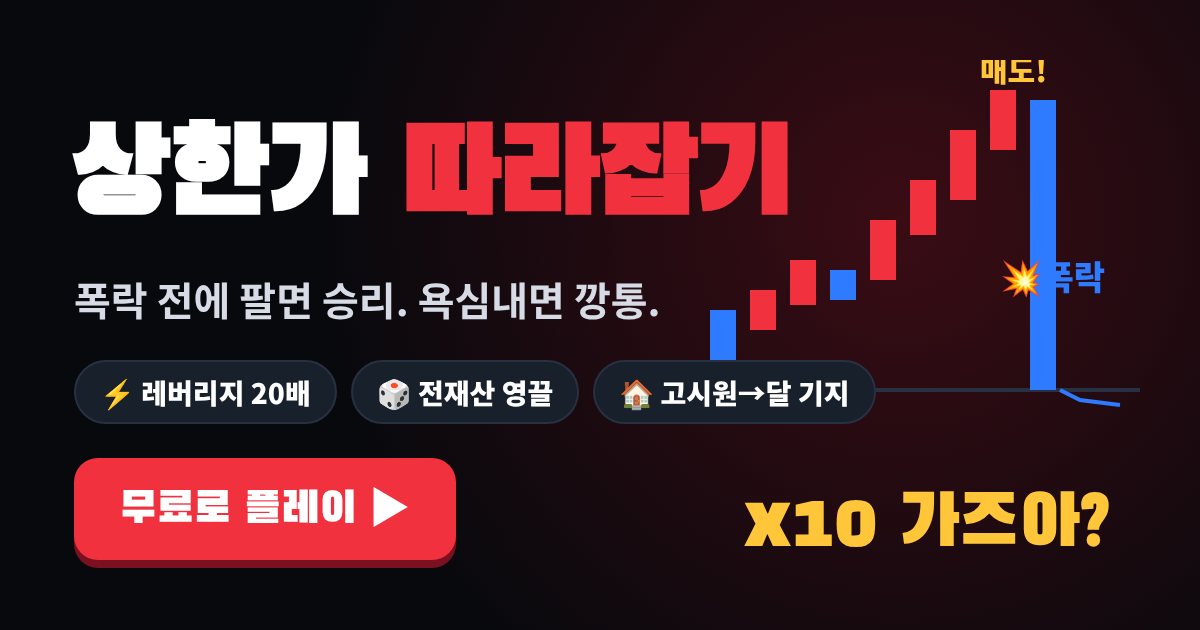
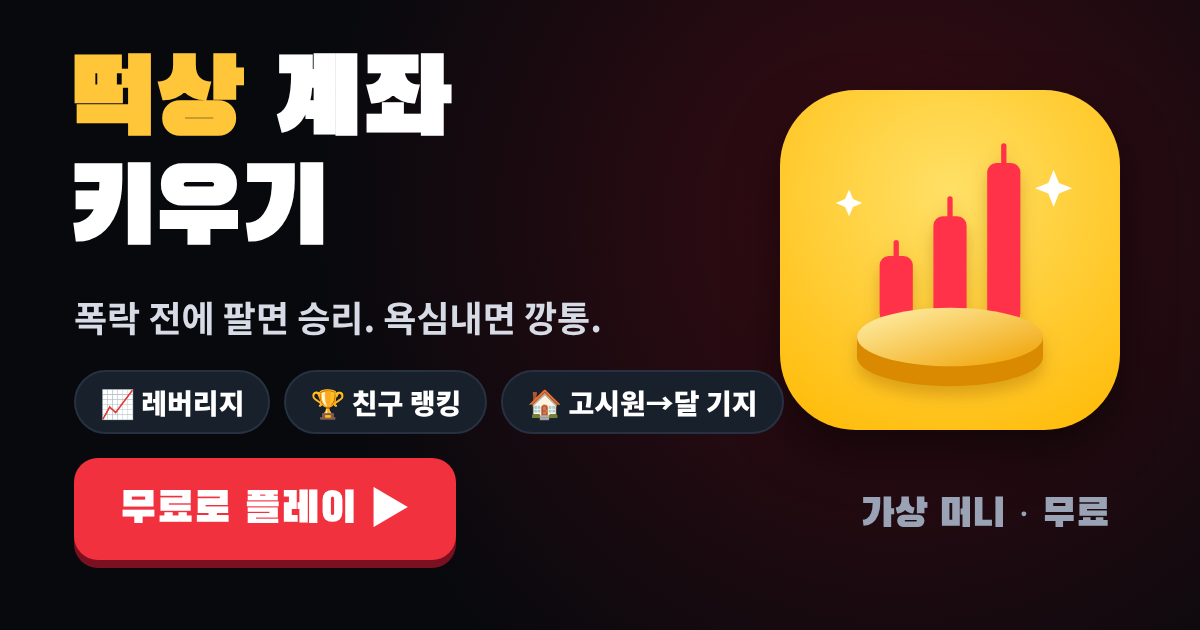
떡상 계좌 키우기: 이름·아이콘 변경
Claude-Session: https://claude.ai/code/session_01QZ3L7dZb4Qjw7JpHHVpWAq

diff --git a/index.html b/index.html
@@ -5,21 +5,21 @@
 <meta name="apple-mobile-web-app-capable" content="yes">
 <meta name="mobile-web-app-capable" content="yes">
 <meta name="apple-mobile-web-app-status-bar-style" content="black-translucent">
-<meta name="apple-mobile-web-app-title" content="상한가">
+<meta name="apple-mobile-web-app-title" content="떡상계좌">
 <link rel="manifest" href="manifest.webmanifest">
 <link rel="apple-touch-icon" href="apple-touch-icon.png">
 <link rel="icon" href="icon-192.png">
 <meta name="description" content="폭락 전에 팔면 승리, 욕심내면 깡통. 레버리지·영끌·투자·컬렉션까지, 무료 주식 타이밍 게임 (가상 머니)">
 <meta property="og:type" content="website">
-<meta property="og:title" content="상한가 따라잡기 📈 폭락 전에 팔아라">
-<meta property="og:description" content="레버리지 20배, 전재산 영끌, 고시원에서 달 기지까지. 무료 · 설치 없음 · 가상 머니">
+<meta property="og:title" content="떡상 계좌 키우기 📈 폭락 전에 팔아라">
+<meta property="og:description" content="폭락 전에 팔고 계좌를 키워라. 고시원에서 달 기지까지. 무료 · 설치 없음 · 가상 머니">
 <meta property="og:image" content="https://melange-lab.github.io/og.png">
 <meta property="og:image:width" content="1200"><meta property="og:image:height" content="630">
 <meta property="og:url" content="https://melange-lab.github.io/">
 <meta name="twitter:card" content="summary_large_image">
 <style>*,*::before,*::after{box-sizing:border-box}:root{padding-top:env(safe-area-inset-top,0px);padding-bottom:env(safe-area-inset-bottom,0px);height:100%}body{margin:0;font-size:14px;overscroll-behavior:none}[hidden]{display:none!important}</style>
 </head><body>
-<title>상한가 따라잡기</title>
+<title>떡상 계좌 키우기</title>
 <meta name="claude:viewport-fit-sides" content="cover">
 <link rel="stylesheet" href="https://fonts.googleapis.com/css2?family=Black+Han+Sans&family=Noto+Sans+KR:wght@400;500;700;900&family=JetBrains+Mono:wght@500;700;800&display=swap">
 <style>
@@ -480,7 +480,7 @@ body{font-size:14px;line-height:1.4}
 
 <div class="app" id="app">
   <header>
-    <h1><b>상한가</b> 따라잡기</h1>
+    <h1><b>떡상</b> 계좌 키우기</h1>
     <div class="rank" id="rankBtn" role="button" tabindex="0" aria-label="레벨·경험치 보기"><span id="rankName">주린이 Lv.1</span><i><b id="rankBar" style="width:0"></b></i></div>
     <button class="ib gd" id="giftBtn" type="button" aria-label="매일 룰렛">🎁</button>
     <button class="ib gd" id="spBtn" type="button">🌳 SP 0</button>
@@ -1123,7 +1123,7 @@ function missionsUpdate(r){
 let shareText='';
 const GAME_URL='https://melange-lab.github.io/';
 function shareOut(text){const full=text+'\n👉 '+GAME_URL;
-  if(navigator.share){navigator.share({title:'상한가 따라잡기',text,url:GAME_URL}).catch(()=>{});return;}
+  if(navigator.share){navigator.share({title:'떡상 계좌 키우기',text,url:GAME_URL}).catch(()=>{});return;}
   (navigator.clipboard?navigator.clipboard.writeText(full):Promise.reject()).then(()=>toast('링크와 함께 복사했습니다. 단톡방에 붙여넣기!'),()=>toast('복사가 막혀 있습니다. 화면을 캡처해 주세요'));}
 function shareBtn(){return '<div class="btns"><button type="button" id="share">📤 결과 공유</button></div>'}
 function bindShare(){const b=$('share');if(!b)return;b.onclick=()=>shareOut(shareText);}
@@ -1132,7 +1132,7 @@ function showWin(pct,xg){
   const close=(crashT-sell.t)<.4?'<div class="sub gd">폭락 '+(crashT-sell.t).toFixed(2)+'초 전 탈출!</div>':'';
   const shook=sell.dip&&peak>=sell.m*1.5?'<div class="sub dn">그 악재 뉴스는 개미털기였습니다.</div>':'';
   const o=run.offer,pp=x=>((x-1)*100).toFixed(1)+'%';
-  shareText=`[상한가 따라잡기] ${o.name} +${pp(sell.m)} 매도 · 고점 근접도 ${pct.toFixed(0)}% · ${g[0]} ${streak>=5?'🔥'+streak+'연속':''}\n자산 ${won(balance)}`;
+  shareText=`[떡상 계좌 키우기] ${o.name} +${pp(sell.m)} 매도 · 고점 근접도 ${pct.toFixed(0)}% · ${g[0]} ${streak>=5?'🔥'+streak+'연속':''}\n자산 ${won(balance)}`;
   card.innerHTML='<div class="grade '+g[1]+'">'+g[0]+'</div><div class="sub">'+g[2]+'</div>'+close+shook+
    (()=>{const tot=sell.gain+sell.bonus+(run.re?(run.re.gain||0)-(run.re.loss||0):0);return '<div class="big '+(tot>=0?'up':'dn')+'">'+sw(tot)+'</div>'+(run.re?'<div class="sub">1차 매도 '+sw(sell.gain+sell.bonus)+'</div>':'');})()+
    (run.re?'<div class="sub '+((run.re.gain||0)-(run.re.loss||0)>=0?'up':'dn')+'">🔁 재진입 '+(run.re.loss?'물림 '+sw(-run.re.loss):'매도 '+sw(run.re.gain||0))+'</div>':'')+
@@ -1149,7 +1149,7 @@ function showWin(pct,xg){
 function hintLine(){return run.hint?'<div class="row"><span>찌라시</span><span>'+(run.hint.real?'진짜였음 🕵':'가짜였음 🤡')+'</span></div>':'';}
 function showBust(loss,L,xg){
   const early=peak<1.1;
-  shareText=`[상한가 따라잡기] ${run.offer.name} 고점 +${((peak-1)*100).toFixed(1)}%에서 못 팔고 물림 ${Math.round(L*100)}% 손실 🫠\n자산 ${won(balance)}`;
+  shareText=`[떡상 계좌 키우기] ${run.offer.name} 고점 +${((peak-1)*100).toFixed(1)}%에서 못 팔고 물림 ${Math.round(L*100)}% 손실 🫠\n자산 ${won(balance)}`;
   card.innerHTML='<div class="grade dn">'+(run.liq?'💀 강제청산':early?'시초가 폭락':'물렸습니다')+'</div>'+
    '<div class="sub">'+(early?'사자마자 터졌습니다. 운이 없었어요.':'+'+((peak-1)*100).toFixed(1)+'%까지 갔는데 욕심을 부렸습니다.')+'</div>'+
    '<div class="big dn">'+sw(-loss)+' ('+Math.round(L*100)+'%)</div>'+
@@ -1630,7 +1630,7 @@ function chalRound(sold){
   const sc=chal.score,d=chal.day;chal=null;store.set('shg_chalRun',null);store.set('shg_chalDay',d);
   lgFix();league.me[d]=sc;store.set('shg_league',league);
   const rw=sc>0?Math.round(betCap()*Math.min(3,sc/100)/1e4)*1e4:0;balance+=rw;gainXp(40);
-  shareText='🏆 상한가 따라잡기 오늘의 챌린지 '+String(d).slice(4,6)+'/'+String(d).slice(6)+' · '+sc+'점! 이 코드 넣고 겨뤄봐 👉 SHG-'+d+'-'+sc+'-'+nick;
+  shareText='🏆 떡상 계좌 키우기 오늘의 챌린지 '+String(d).slice(4,6)+'/'+String(d).slice(6)+' · '+sc+'점! 이 코드 넣고 겨뤄봐 👉 SHG-'+d+'-'+sc+'-'+nick;
   card.innerHTML='<div class="grade gd">🏆 챌린지 완료</div><div class="big '+(sc>=0?'up':'dn')+'">'+sc+'점</div><div class="sub">'+'판별: '+chalLast(sc)+'</div>'+(rw?'<div class="sub up">보상 '+won(rw)+' · XP +40</div>':'<div class="sub">XP +40</div>')+'<div class="sub">결과 공유로 친구에게 코드를 보내면 친구 리그에서 겨룰 수 있어요.</div>'+shareBtn();card.hidden=false;bindShare();
 }
 const chalLast=sc=>sc>=300?'전설의 단타':sc>=150?'고수':sc>=50?'선방':sc>=0?'본전치기':'물림 파티';
@@ -1643,7 +1643,7 @@ function chalHtml(){lgFix();const today=dayNum(),played=store.get('shg_chalDay',
    '<div style="display:grid;grid-template-columns:1fr 1fr;gap:8px;padding:10px 0"><button class="setbtn" type="button" id="lgAdd">➕ 친구 코드 넣기</button><button class="setbtn ghost" type="button" id="nickSet">✏ 닉네임 '+nick+'</button></div></div>';}
 function chalBind(pg){
   const g=pg.querySelector('#chalGo');if(g)g.onclick=()=>{if(chal){tab('trade');setBtn();}else chalStart();};
-  const sh=pg.querySelector('#chalShare');if(sh)sh.onclick=()=>{const d=dayNum();shareOut('🏆 상한가 따라잡기 오늘의 챌린지 '+(league.me[d]||0)+'점! 이 코드 넣고 겨뤄봐 👉 SHG-'+d+'-'+(league.me[d]||0)+'-'+nick);};
+  const sh=pg.querySelector('#chalShare');if(sh)sh.onclick=()=>{const d=dayNum();shareOut('🏆 떡상 계좌 키우기 오늘의 챌린지 '+(league.me[d]||0)+'점! 이 코드 넣고 겨뤄봐 👉 SHG-'+d+'-'+(league.me[d]||0)+'-'+nick);};
   const a=pg.querySelector('#lgAdd');if(a)a.onclick=()=>{const t=(prompt('친구가 보낸 코드를 붙여넣으세요 (SHG-로 시작)')||'');const m=t.match(/SHG-(\d{8})-(-?\d+)-([^\s]{1,20})/);
     if(!m){if(t)toast('코드를 찾지 못했어요');return;}lgFix();const [,d,sc,n]=m;if(n===nick){toast('내 코드예요');return;}league.fr[n]=league.fr[n]||{};league.fr[n][+d]=+sc;store.set('shg_league',league);toast('👥 '+n+' 점수 추가!');rerender('mission');};
   const nk=pg.querySelector('#nickSet');if(nk)nk.onclick=()=>{const v=(prompt('닉네임 (공백 없이 2~10자)',nick)||'').trim().replace(/\s+/g,'');if(v.length>=2&&v.length<=10){nick=v;store.set('shg_nick',nick);rerender('mission');}};
@@ -1856,7 +1856,7 @@ function pageSet(){
    '<h3>개인정보</h3><p class="lead">이 게임은 회원가입이 없고, 플레이 기록을 서버로 보내지 않습니다. 글꼴만 Google Fonts에서 받아옵니다.</p>'+
    '<h3>데이터</h3><button class="setbtn danger" type="button" id="wipe" style="width:100%">모든 기록 초기화</button><p class="lead" style="margin-top:8px">기록은 이 기기의 브라우저에만 저장됩니다. 초기화하면 계급, 스킬, 업적이 모두 사라집니다.</p>'+
    (CFG.donateUrl?'<h3>개발자 응원</h3><a class="setbtn" style="display:block;text-align:center;text-decoration:none;width:100%" href="'+CFG.donateUrl+'" target="_blank" rel="noopener">☕ 커피 한 잔 후원하기</a><p class="lead" style="margin-top:8px">후원은 게임 내 보상과 무관한 순수 응원이에요.</p>':'')+'<h3>친구 초대</h3><button class="setbtn" type="button" id="invite" style="width:100%">📤 친구에게 게임 공유하기</button>'+
-   '<p class="lead" style="margin-top:10px">상한가 따라잡기 v2.0 · 가상 머니 게임이며 실제 투자·현금과 무관합니다. 실제 돈은 쓰이지 않습니다.</p>';
+   '<p class="lead" style="margin-top:10px">떡상 계좌 키우기 v2.1 · 가상 머니 게임이며 실제 투자·현금과 무관합니다. 실제 돈은 쓰이지 않습니다.</p>';
 }
 function bindPage(name){
   const pg=$('page');
@@ -1871,7 +1871,7 @@ function bindPage(name){
   pg.querySelectorAll('[data-dep]').forEach(b=>b.onclick=()=>{const id=b.dataset.dep,v=Math.floor(balance*invPct);if(v<1)return;balance-=v;invest[id]=invest[id]||{a:0};invest[id].a+=v;store.set('shg_inv2',invest);sfx.sell();toast('💼 '+PROD.find(x=>x.id===id).n+' 입금 '+won(v));paintTop();paintPickers();rerender('invest');});
   pg.querySelectorAll('[data-wd]').forEach(b=>b.onclick=()=>{const P=PROD.find(x=>x.id===b.dataset.wd),h=invest[P.id];if(!h||!(h.a>0))return;const take=invPct>=1?h.a:h.a*invPct,out=take*(1-P.fee);balance+=out;h.a-=take;if(h.a<1){h.a=0;h.d=0;}store.set('shg_inv2',invest);sfx.sell();toast('💼 출금 '+won(out)+(P.fee?' (수수료 '+P.fee*100+'%)':''));paintTop();paintPickers();rerender('invest');});
   pg.querySelectorAll('[data-col]').forEach(b=>b.onclick=()=>{const c=COL.find(x=>x.id===b.dataset.col);if(col.includes(c.id)||balance<c.p)return;balance-=c.p;col.push(c.id);store.set('shg_col',col);sfx.up();burst(innerWidth/2,innerHeight*.4,80);stamp(c.e+' '+c.n+' 획득!');toast('🏆 컬렉션 '+col.length+'/'+COL.length+' · SP +'+(c.fic?2:1));if(catDone(c.cat)){const K=CATS.find(k=>k.id===c.cat);setTimeout(()=>{stamp(K.e+' '+K.n+' 완성!');toast('✅ '+K.n+' 분류 완성 · 보너스 SP +3');},900);}paintTop();paintPickers();rerender('invest');});
-  const iv=$('invite');if(iv)iv.onclick=()=>shareOut('📈 상한가 따라잡기 — 폭락 전에 팔면 이기는 주식 게임. 내 자산 '+won(balance)+', 나보다 잘할 수 있음?');
+  const iv=$('invite');if(iv)iv.onclick=()=>shareOut('📈 떡상 계좌 키우기 — 폭락 전에 팔면 이기는 주식 게임. 내 자산 '+won(balance)+', 나보다 잘할 수 있음?');
   const pz=$('prestige');if(pz)pz.onclick=()=>{if(balance+invTotal()-debt<PRES_NEED())return;if(!confirm('은퇴하고 새 회차를 시작할까요?\n돈·투자·장비·소모품·빚이 초기화됩니다.'))return;
     pres++;store.set('shg_pres',pres);lowFlag=false;streak=0;app.classList.remove('fever');$('fever').hidden=true;balance=START;debt=0;credit=5;gear={};inv={};armed={};invest={};lastHome=0;
     ['shg_gear','shg_inv','shg_armed','shg_inv2'].forEach(k=>store.set(k,{}));store.set('shg_home',0);store.set('shg_bal',balance);

diff --git a/sw.js b/sw.js
@@ -1,5 +1,5 @@
 // 오프라인 지원: 게임 파일은 설치 시 캐시, 글꼴은 처음 받을 때 캐시
-const CACHE = 'sanghanga-v42';
+const CACHE = 'sanghanga-v43';
 const CORE = ['./', 'index.html', 'manifest.webmanifest', 'icon-192.png', 'icon-512.png', 'apple-touch-icon.png'];
 
 self.addEventListener('install', e => {

diff --git a/README.md b/README.md
@@ -1,4 +1,4 @@
-# 상한가 따라잡기
+# 떡상 계좌 키우기
 
 버튼을 한 번 눌러 매수하고, 폭락 전에 다시 눌러 매도하는 타이밍 게임입니다. 가상 머니만 쓰고 실제 돈은 오가지 않습니다. 설치 없이 브라우저에서 돌아가고, 홈 화면에 추가하면 오프라인에서도 실행됩니다.
 
